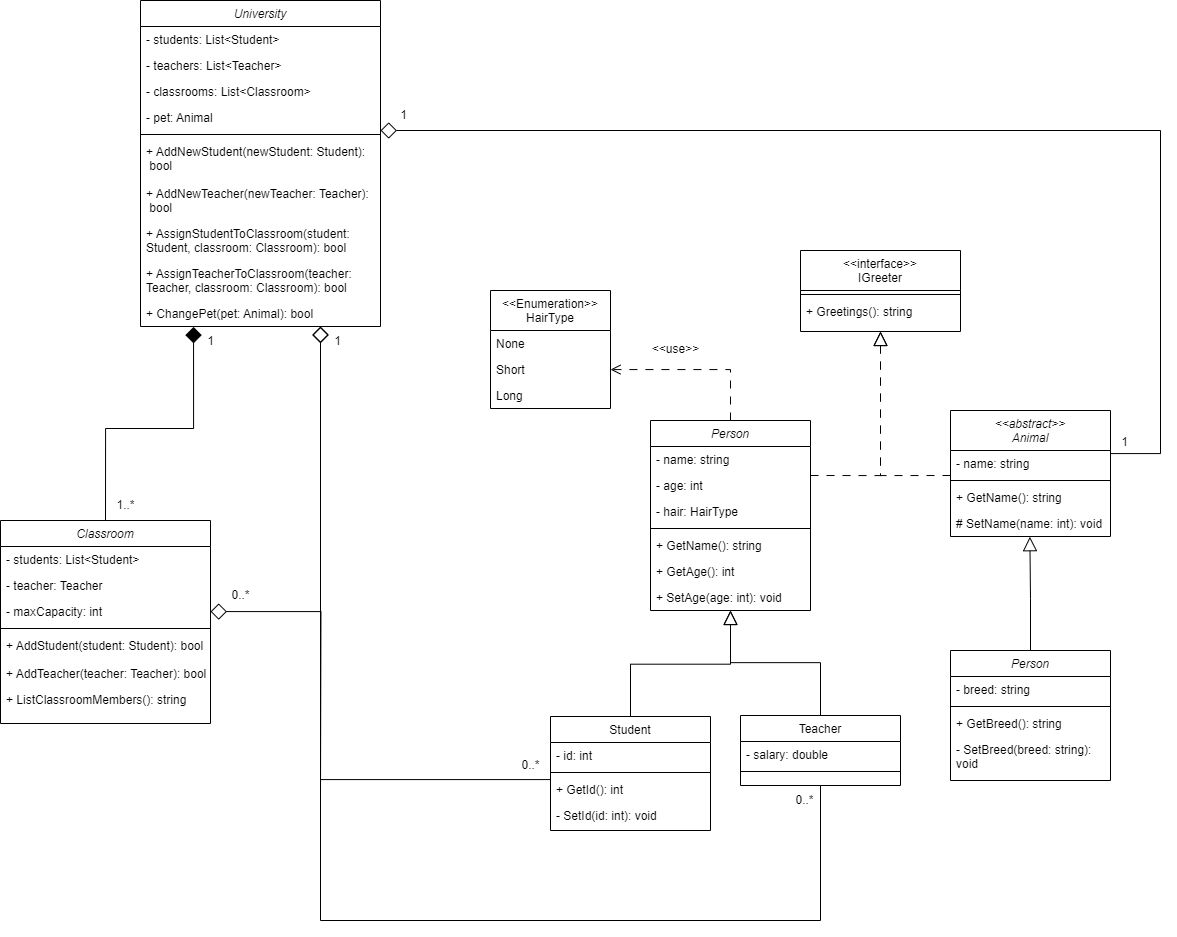
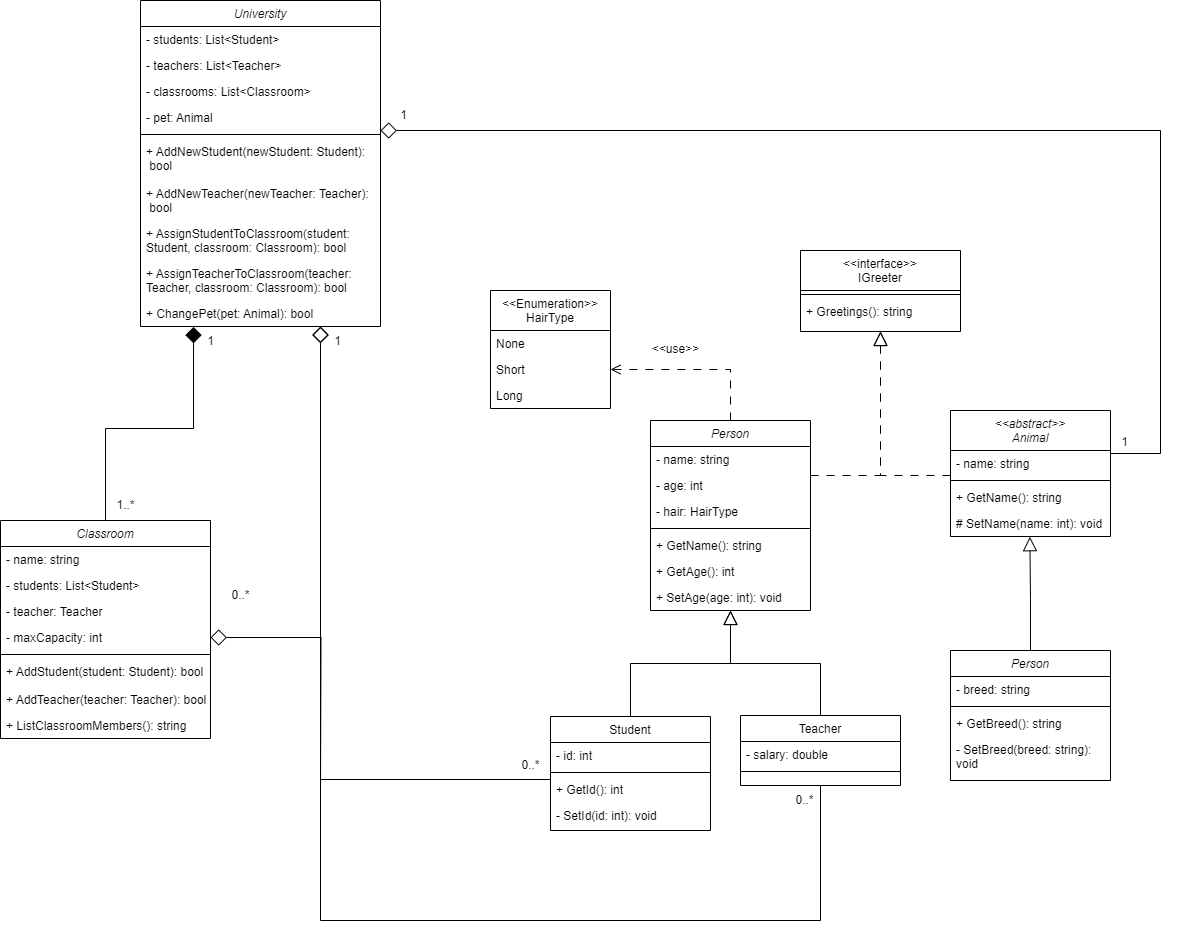
Added c# code according to UML class diagram - class 23/09/2024

Changed region(s): [[0.0, 0.588, 0.1835, 0.8047]]

diff --git a/Program.cs b/Program.cs
@@ -2,6 +2,68 @@
 {
     class Program
     {
+        public static void Main(string[] args)
+        {
+            // Create the university mascot
+            Dog universityMascot = new Dog("Penn", "Beagle");
+
+            // Define the classroom names and capacities
+            var classroomDetails = new List<(string name, int capacity)>
+            {
+                ("Math 101", 30),
+                ("Science 201", 25),
+                ("History 301", 20)
+            };
+
+            // Create the university with 3 classrooms (with capacities of 30, 25, and 20 students respectively)
+            University upenn = new University(universityMascot, classroomDetails);
+
+            // Create students
+            Student alice = new Student("Alice", 20, HairType.Long);
+            Student bob = new Student("Bob", 19, HairType.Short);
+
+            // Create an underage student 
+            Student kevin = new Student("Kevin", 15, HairType.Short);
+
+            // Create an unregistered student
+            Student charlie = new Student("Charlie", 21, HairType.Short);
+
+            // Create a teacher
+            Teacher drSmith = new Teacher("Dr. Smith", 50000);
+            
+
+            // Add students and teachers to the university
+            upenn.AddNewStudent(alice);
+            upenn.AddNewStudent(bob);
+            upenn.AddNewTeacher(drSmith);
+
+            // Attempt to add an underage student
+            upenn.AddNewStudent(kevin); // This will show an error
+
+            // Assign teacher and students to a classroom
+            Classroom mathClassroom = upenn.Classrooms[0]; // Select the first classroom
+            Classroom scienceClassroom = upenn.Classrooms[1]; // Select the first classroom
+
+            upenn.AssignTeacherToClassroom(drSmith, mathClassroom);
+            upenn.AssignStudentToClassroom(alice, mathClassroom);
+            upenn.AssignStudentToClassroom(bob, mathClassroom);
+
+            // Attempt to assign an unregistered student
+            upenn.AssignStudentToClassroom(charlie, mathClassroom); // This will show an error
+
+            // Attempt to assign a student to a classroom without teacher
+            upenn.AssignStudentToClassroom(alice, scienceClassroom); // This will show an error
+
+            // List the members of the classroom
+            Console.WriteLine(mathClassroom.ListClassroomMembers());
+
+            // Greeting from the mascot
+            Console.WriteLine(universityMascot.Greetings());
+        }
+
+
+        // Main first classes
+        /*
         static void Main(string[] args) 
         {
             var ana = new Person("Ana", 27, HairType.Long);
@@ -69,7 +131,8 @@
                 Console.WriteLine(greeter.Greetings());
             }
         }
+        */
     }
 
-    
+
 }

diff --git a/University.cs b/University.cs
@@ -1,0 +1,81 @@
+using System;
+using System.Collections.Generic;
+using System.Linq;
+using System.Text;
+using System.Threading.Tasks;
+
+namespace IntroOOP
+{
+    internal class University
+    {
+        public List<Student> Students { get; private set; }
+        public List<Teacher> Teachers { get; private set; }
+        public List<Classroom> Classrooms { get; private set; }
+        public Animal Pet { get; private set; }
+
+        public University(Animal pet, List<(string name, int capacity)> classroomDetails)
+        {
+            Students = new List<Student>();
+            Teachers = new List<Teacher>();
+            Classrooms = new List<Classroom>();
+            Pet = pet;
+
+            foreach (var classroomDetail in classroomDetails)
+            {
+                Classrooms.Add(new Classroom(classroomDetail.name, classroomDetail.capacity));
+            }
+
+            Console.WriteLine($"University created with {classroomDetails.Count} classrooms and {pet.Name} as a mascot");
+        }
+
+        public bool AddNewStudent(Student newStudent)
+        {
+            if (newStudent.Age >= 18)
+            {
+                Students.Add(newStudent);
+                Console.WriteLine($"Student {newStudent.Name} successfully added to the university");
+                return true;
+            }
+            else
+            {
+                Console.WriteLine($"Error: Student {newStudent.Name} is underage and cannot be added to the university");
+                return false;
+            }
+        }
+
+        public bool AddNewTeacher(Teacher newTeacher)
+        {
+            Teachers.Add(newTeacher);
+            Console.WriteLine($"Teacher {newTeacher.Name} successfully added to the university");
+            return true;
+        }
+
+        public bool AssignStudentToClassroom(Student student, Classroom classroom)
+        {
+            if (!Students.Contains(student))
+            {
+                Console.WriteLine($"Error: Student {student.Name} is not registered in the university");
+                return false;
+            }
+
+            return classroom.AddStudent(student);
+        }
+
+        public bool AssignTeacherToClassroom(Teacher teacher, Classroom classroom)
+        {
+            if (!Teachers.Contains(teacher))
+            {
+                Console.WriteLine($"Teacher {teacher.Name} is not registered in the university");
+                return false;
+            }
+
+            return classroom.AddTeacher(teacher);
+        }
+
+        public bool ChangePet(Animal newPet)
+        {
+            Pet = newPet;
+            return true;
+        }
+    }
+}

diff --git a/Classroom.cs b/Classroom.cs
@@ -1,0 +1,68 @@
+using System;
+using System.Collections.Generic;
+using System.Linq;
+using System.Text;
+using System.Threading.Tasks;
+
+namespace IntroOOP
+{
+    internal class Classroom
+    {
+        public string Name { get; private set; }
+        public List<Student> Students { get; private set; }
+        public Teacher Teacher { get; private set; }
+        public int MaxCapacity { get; private set; }
+
+        public Classroom(string name, int maxCapacity)
+        {
+            Name = name;
+            Students = new List<Student>();
+            MaxCapacity = maxCapacity;
+        }
+
+        public bool AddTeacher(Teacher teacher)
+        {
+            if (Teacher == null)
+            {
+                Teacher = teacher;
+                Console.WriteLine($"Teacher {teacher.Name} successfully assigned to {Name} classroom");
+                return true;
+            }
+
+            Console.WriteLine($"There is already a teacher assigned to {Name} classroom");
+            return false;
+        }
+
+        public bool AddStudent(Student student)
+        {
+            if (Teacher == null)
+            {
+                Console.WriteLine($"Error: Cannot add student to the {Name} classroom without a teacher");
+                return false;
+            }
+
+            if (Students.Count >= MaxCapacity)
+            {
+                Console.WriteLine($"Error: {Name} classroom is full. Cannot add student {student.Name}");
+                return false;
+            }
+
+            Students.Add(student);
+            Console.WriteLine($"Student {student.Name} successfully assigned to {Name} classroom");
+            return true;
+        }
+
+        public string ListClassroomMembers()
+        {
+            string list = $"{Name} classroom (Max Capacity: {MaxCapacity}) - Teacher: {Teacher.Name}\n";
+            list += "Students:\n";
+
+            foreach (var student in Students)
+            {
+                list += student.ToString();
+            }
+
+            return list;
+        }
+    }
+}

diff --git a/Student.cs b/Student.cs
@@ -2,16 +2,22 @@
 {
     internal class Student : Person
     {
+        private static int idCounter = 0;
         public int Id { get; private set; }
 
-        public Student (string name, int age, HairType hair, int id) : base (name, age, hair)
+        public Student (string name, int age, HairType hair) : base (name, age, hair)
         {
-            Id = id;
+            Id = ++idCounter;
         }
 
         public override string Greetings()
         {
             return "Hello, I am a student";
+        }
+
+        public override string ToString()
+        {
+            return $"- {Name} (ID: {Id})\n";
         }
     }
 }

diff --git a/Dog.cs b/Dog.cs
@@ -12,9 +12,8 @@ namespace IntroOOP
             get; 
             private set; 
         }
-        public Dog (string name, string breed)
+        public Dog (string name, string breed) : base (name)
         {
-            Name = name;
             Breed = breed;
         }
 

diff --git a/Animal.cs b/Animal.cs
@@ -10,6 +10,11 @@ namespace IntroOOP
     {
         public string Name { get; protected set; }
 
+        public Animal(string name)
+        {
+            Name = name;
+        }
+
         public abstract string Greetings();
     }
 }
